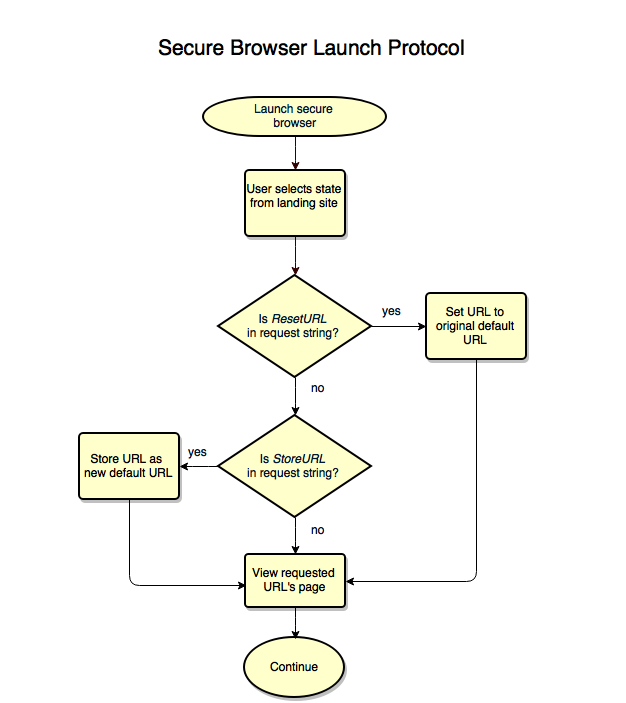
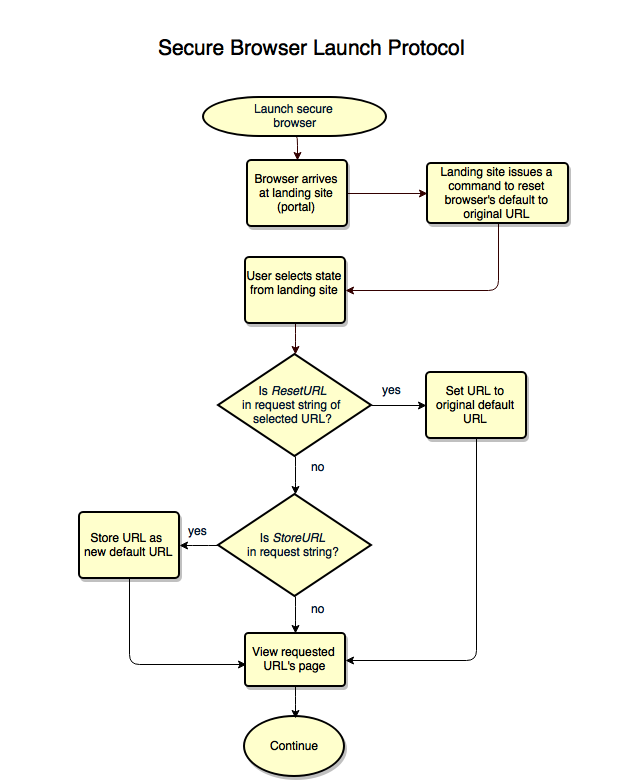
Update Fig 1 and Fig 2 (sequence and flow diagrams) to clarify landing site resetting the URL upon arrival.

diff --git a/irp/doc/req/SecureBrowserLaunchProtocol.html b/irp/doc/req/SecureBrowserLaunchProtocol.html
@@ -357,7 +357,7 @@ pre[class*="language-"] {
 
 <h1 id="toc_0">Secure Browser Launch Protocol Specification</h1>
 
-<p>v.1.10 - Last modified 30-Apr-2017</p>
+<p>v.1.11 - Last modified 02-May-2017</p>
 
 <h2 id="toc_1">IP Notice</h2>
 

diff --git a/irp/doc/req/SecureBrowserLaunchProtocol.md b/irp/doc/req/SecureBrowserLaunchProtocol.md
@@ -1,5 +1,5 @@
 # Secure Browser Launch Protocol Specification
-v.1.10 - Last modified 30-Apr-2017
+v.1.11 - Last modified 02-May-2017
 
 ## IP Notice
 This specification is &copy;2017 by The Regents of the University of California, Smarter Balanced Assessment Consortium and is licensed under a [Creative Commons Attribution 4.0 International License](https://creativecommons.org/licenses/by/4.0/).
